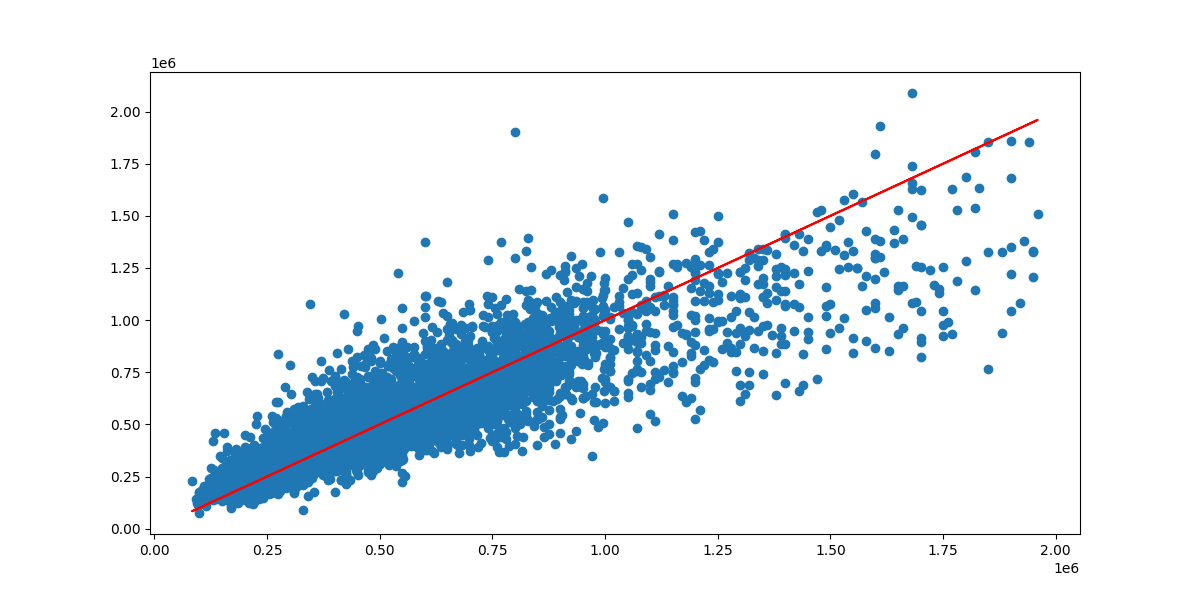
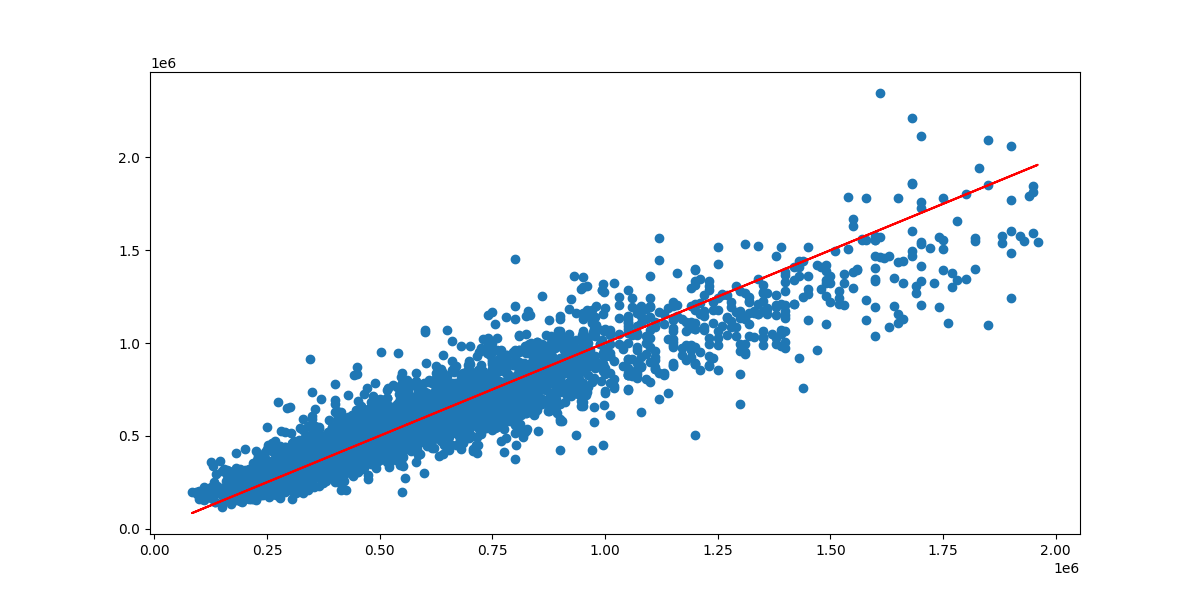
feat: add early stop callback

diff --git a/src/main.py b/src/main.py
@@ -5,6 +5,7 @@ import matplotlib.pyplot as plt
 from sklearn.preprocessing import MinMaxScaler
 from helpers import path, create_df, load_model
 from sklearn.model_selection import train_test_split
+from tensorflow.keras.callbacks import EarlyStopping
 from sklearn.metrics import mean_absolute_error, mean_squared_error, explained_variance_score
 
 df = create_df(path.resources('housing.csv'))
@@ -26,7 +27,15 @@ model.fit(
   y=y_train,
   validation_data=(X_test,y_test),
   batch_size=128,
-  epochs=400
+  epochs=2000,
+  callbacks=[
+    EarlyStopping(
+      monitor='val_loss',
+      mode='min',
+      verbose=1,
+      patience=25
+    )
+  ]
 )
 
 pd.DataFrame(model.history.history) \
